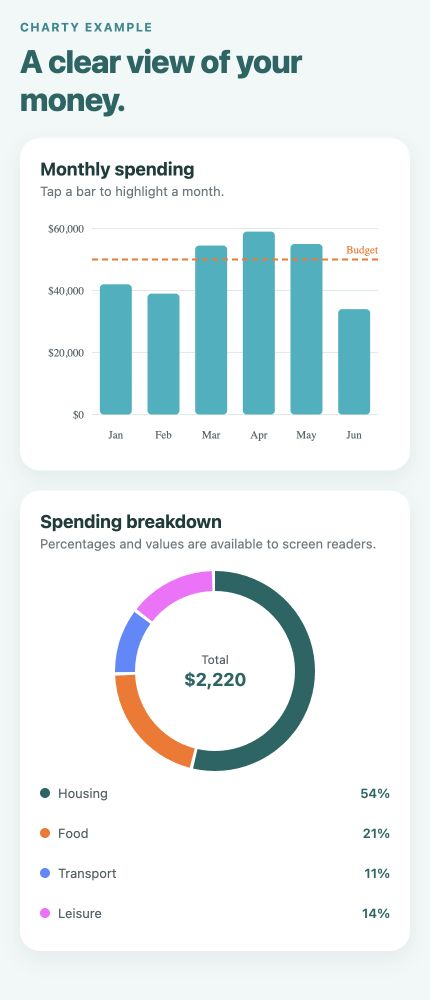
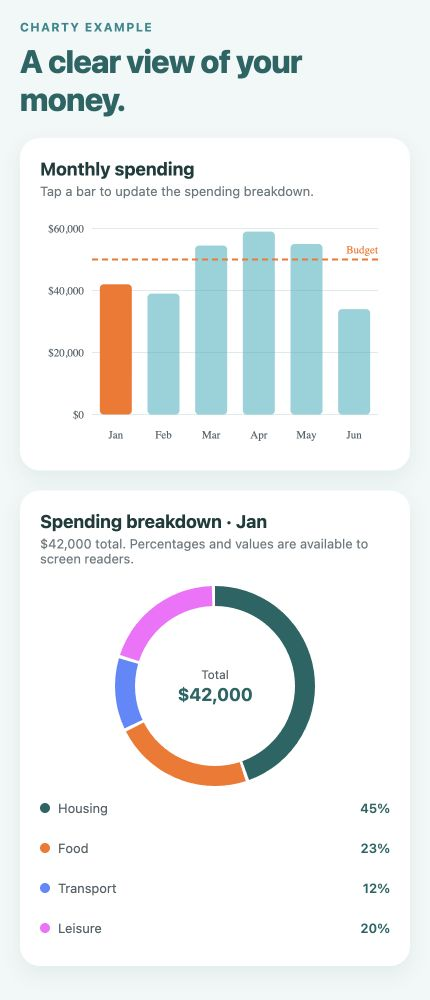
feat: sync breakdown with selected month

diff --git a/example/App.tsx b/example/App.tsx
@@ -8,24 +8,37 @@ const currency = new Intl.NumberFormat('en-US', {
   style: 'currency',
 });
 
-const monthlyData = [
-  { label: 'Jan', value: 42_000 },
-  { label: 'Feb', value: 39_000 },
-  { label: 'Mar', value: 54_500 },
-  { label: 'Apr', value: 59_000 },
-  { label: 'May', value: 55_000 },
-  { label: 'Jun', value: 34_000 },
-];
+const categories = [
+  { label: 'Housing', color: '#0F6564' },
+  { label: 'Food', color: '#FD7119' },
+  { label: 'Transport', color: '#5A88FF' },
+  { label: 'Leisure', color: '#FC6AFF' },
+] as const;
 
-const spendingData = [
-  { label: 'Housing', value: 1_200, color: '#0F6564' },
-  { label: 'Food', value: 460, color: '#FD7119' },
-  { label: 'Transport', value: 240, color: '#5A88FF' },
-  { label: 'Leisure', value: 320, color: '#FC6AFF' },
+type SpendingShares = readonly [number, number, number, number];
+
+function createBreakdown(total: number, shares: SpendingShares) {
+  let allocated = 0;
+
+  return categories.map((category, index) => {
+    const value = index === categories.length - 1 ? total - allocated : Math.round(total * shares[index]);
+    allocated += value;
+    return { ...category, value };
+  });
+}
+
+const monthlyData = [
+  { label: 'Jan', value: 42_000, breakdown: createBreakdown(42_000, [0.45, 0.23, 0.12, 0.2]) },
+  { label: 'Feb', value: 39_000, breakdown: createBreakdown(39_000, [0.42, 0.25, 0.13, 0.2]) },
+  { label: 'Mar', value: 54_500, breakdown: createBreakdown(54_500, [0.48, 0.18, 0.14, 0.2]) },
+  { label: 'Apr', value: 59_000, breakdown: createBreakdown(59_000, [0.51, 0.19, 0.11, 0.19]) },
+  { label: 'May', value: 55_000, breakdown: createBreakdown(55_000, [0.46, 0.21, 0.15, 0.18]) },
+  { label: 'Jun', value: 34_000, breakdown: createBreakdown(34_000, [0.44, 0.24, 0.17, 0.15]) },
 ];
 
 export default function App() {
-  const [selectedIndex, setSelectedIndex] = useState<number>();
+  const [selectedIndex, setSelectedIndex] = useState(0);
+  const selectedMonth = monthlyData[selectedIndex];
 
   return (
     <SafeAreaView style={styles.screen}>
@@ -35,7 +48,7 @@ export default function App() {
 
         <View style={styles.card}>
           <Text style={styles.cardTitle}>Monthly spending</Text>
-          <Text style={styles.cardCaption}>Tap a bar to highlight a month.</Text>
+          <Text style={styles.cardCaption}>Tap a bar to update the spending breakdown.</Text>
           <BarChart
             accessibilityLabel="Monthly spending compared with a fifty thousand dollar budget"
             data={monthlyData}
@@ -47,11 +60,13 @@ export default function App() {
         </View>
 
         <View style={styles.card}>
-          <Text style={styles.cardTitle}>Spending breakdown</Text>
-          <Text style={styles.cardCaption}>Percentages and values are available to screen readers.</Text>
+          <Text style={styles.cardTitle}>Spending breakdown · {selectedMonth.label}</Text>
+          <Text style={styles.cardCaption}>
+            {currency.format(selectedMonth.value)} total. Percentages and values are available to screen readers.
+          </Text>
           <DonutChart
-            accessibilityLabel="Spending breakdown"
-            data={spendingData}
+            accessibilityLabel={`Spending breakdown for ${selectedMonth.label}`}
+            data={selectedMonth.breakdown}
             formatValue={currency.format}
             style={styles.donut}
           />
